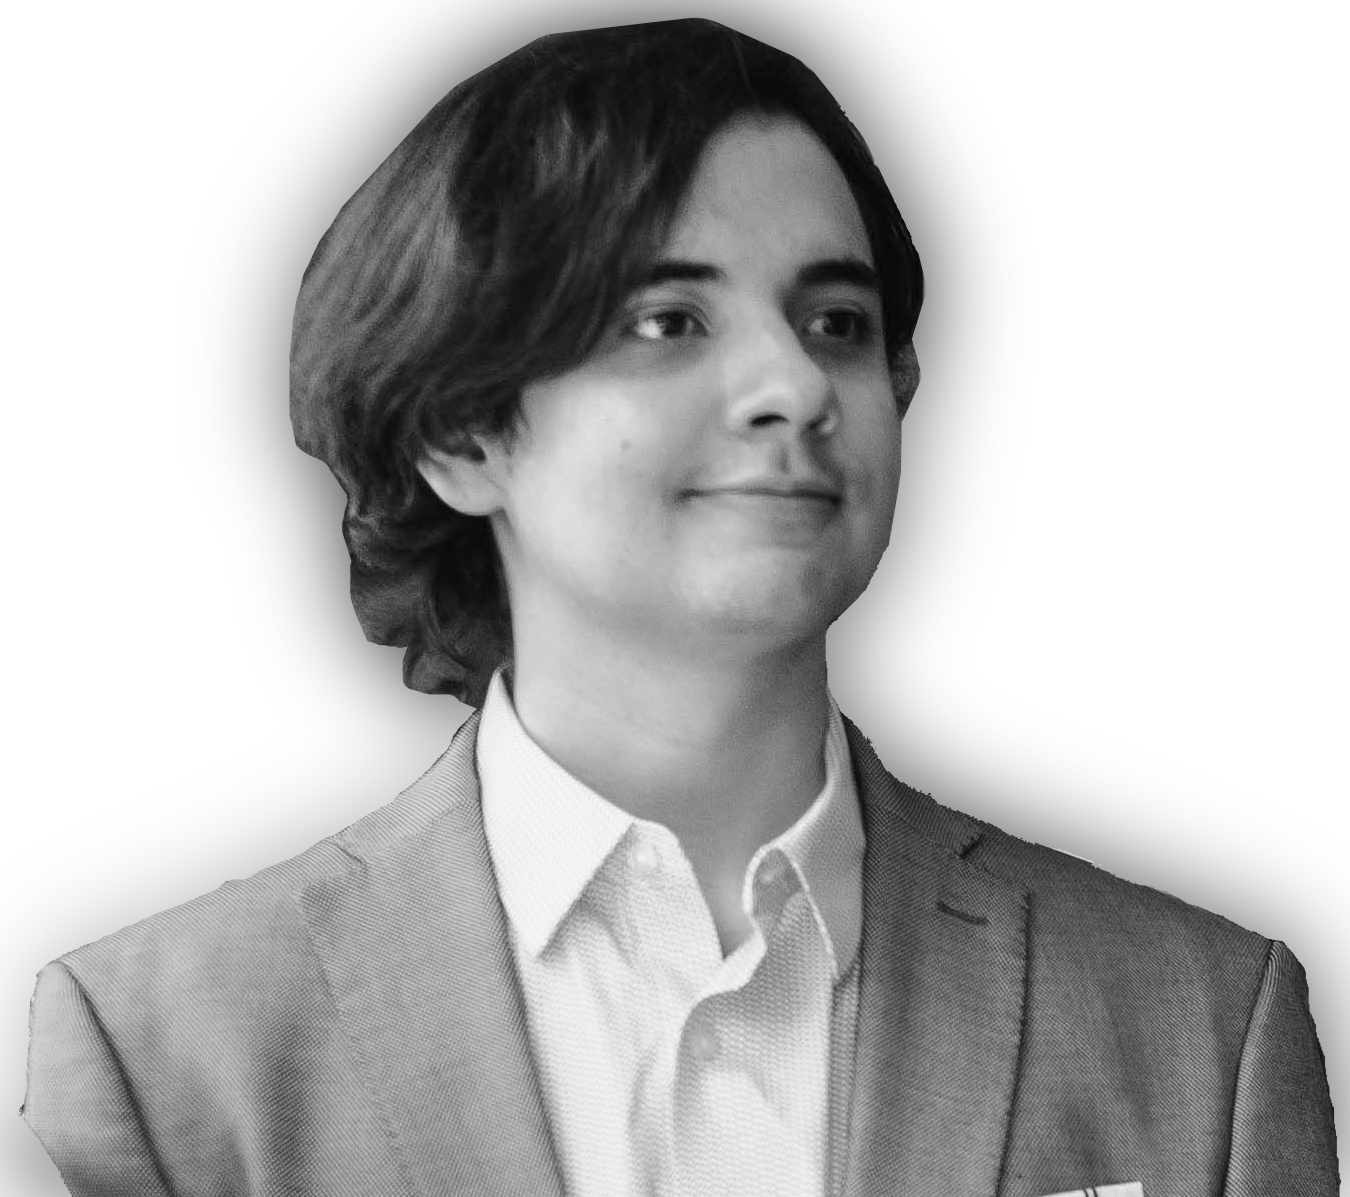
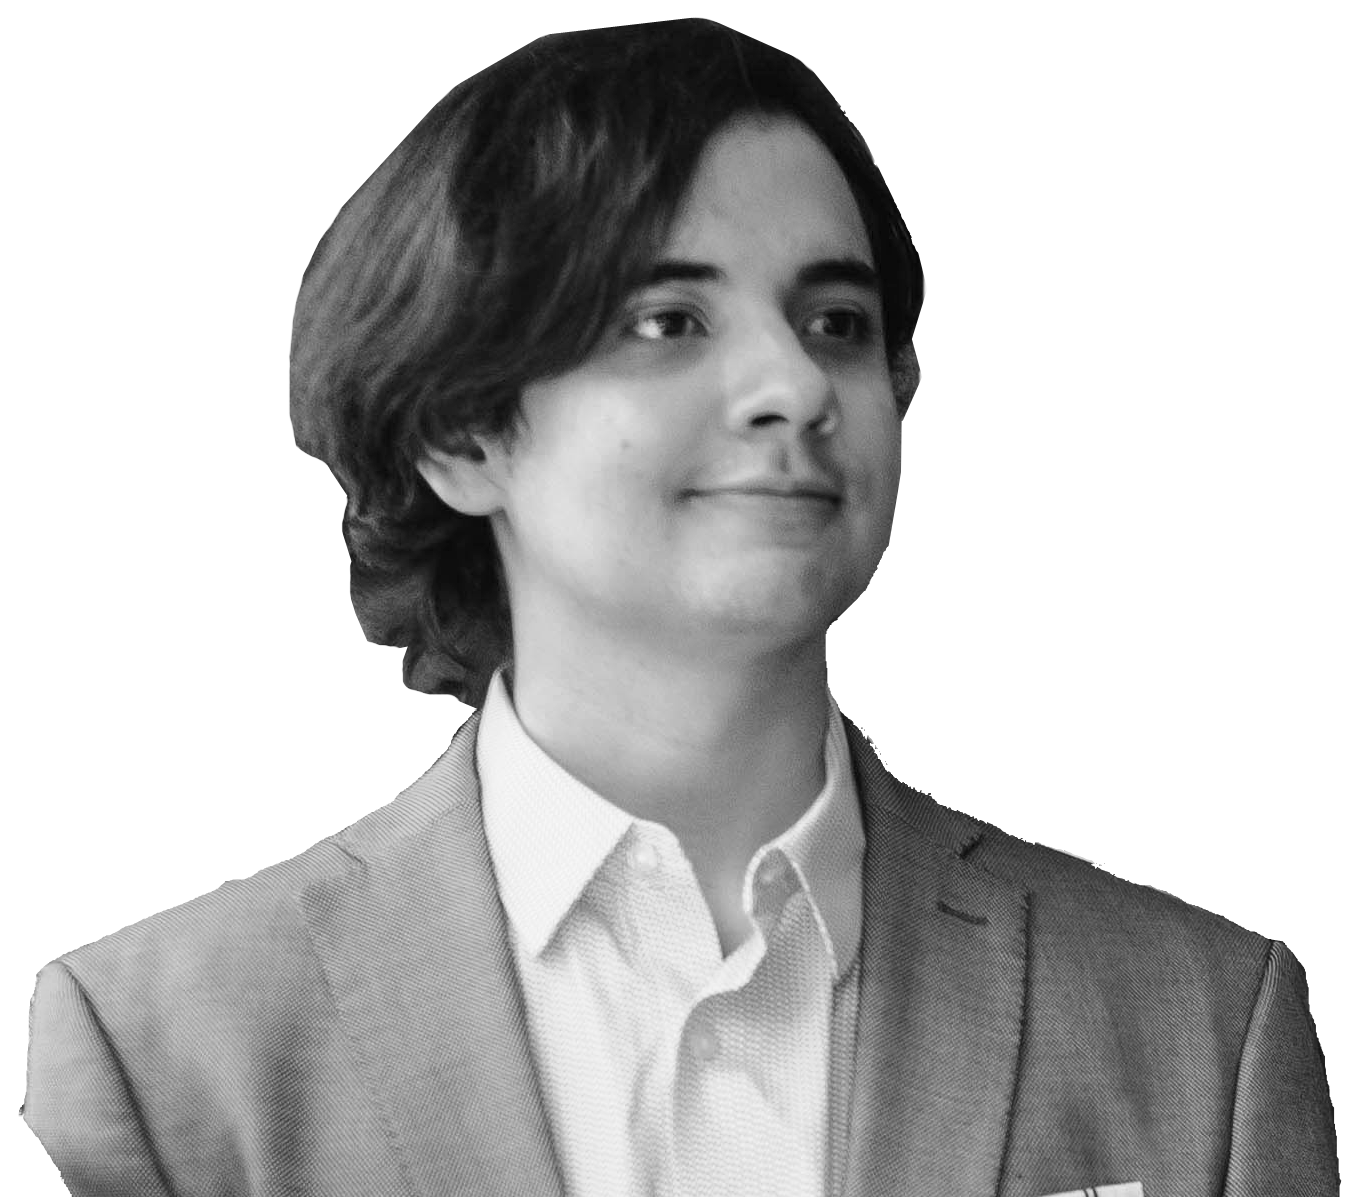
Jumbotron Finished

Changed region(s): [[0.0311, 0.0, 1.0, 1.0], [0.0, 0.8037, 0.0622, 1.0]]

diff --git a/src/views/LandingPage.tsx b/src/views/LandingPage.tsx
@@ -1,6 +1,15 @@
 import "../styles/LandingPage.scss";
 // import Img_Man from "../media/Man.png";
 import Img_Mike from "../media/Mike2022ImageGray.png";
+import HomeIcon from "@mui/icons-material/Home";
+import {
+  FaReact,
+  FaJs,
+  FaHtml5,
+  FaCss3Alt,
+  FaGithub,
+  FaGitAlt,
+} from "react-icons/fa";
 
 const LandingPage = () => {
   return (
@@ -41,10 +50,10 @@ const LandingPage = () => {
             <div className="jumbotron">
               <div className="container">
                 <div className="row">
-                  <div className="col-sm">
+                  <div className="col-sm center-image">
                     <img
                       src={Img_Mike}
-                      className="img-fluid man"
+                      className="img-fluid my-image"
                       alt="Responsive image"
                     ></img>
                   </div>
@@ -52,7 +61,69 @@ const LandingPage = () => {
                     <p className="jumbotron__description--sec1">
                       Michael Bateman
                     </p>
-                    <p className="jumbotron__description--sec2">{`React & React Native Developer`}</p>
+                    <p className="jumbotron__description--sec2">
+                      {`React & React Native Developer`}
+                    </p>
+                    <p className="jumbotron__description--icons">
+                      <FaReact
+                        style={{
+                          color: "#61DBFB",
+                          backgroundColor: "#323330",
+                          borderRadius: 5,
+                          borderStyle: "solid",
+                          borderWidth: 1,
+                        }}
+                      />{" "}
+                      <FaHtml5
+                        style={{
+                          color: "#e34c26",
+                          backgroundColor: "#ebebeb",
+                          borderRadius: 5,
+                          borderStyle: "solid",
+                          borderWidth: 1,
+                        }}
+                      />{" "}
+                      <FaCss3Alt
+                        style={{
+                          color: "#264de4",
+                          backgroundColor: "#ebebeb",
+                          borderRadius: 5,
+                          borderStyle: "solid",
+                          borderWidth: 1,
+                          borderColor: "#264de4",
+                        }}
+                      />{" "}
+                      <FaJs
+                        style={{
+                          color: "#F0DB4F",
+                          backgroundColor: "#323330",
+                          borderRadius: 5,
+                          borderStyle: "solid",
+                          borderWidth: 1,
+                          borderColor: "#323330",
+                        }}
+                      />{" "}
+                      <FaGithub
+                        style={{
+                          color: "white",
+                          backgroundColor: "#323330",
+                          borderRadius: 5,
+                          borderStyle: "solid",
+                          borderWidth: 1,
+                          borderColor: "#323330",
+                        }}
+                      />{" "}
+                      <FaGitAlt
+                        style={{
+                          color: "#F1502F",
+                          backgroundColor: "white",
+                          borderRadius: 5,
+                          borderStyle: "solid",
+                          borderWidth: 1,
+                          borderColor: "#3E2C00",
+                        }}
+                      />
+                    </p>
                     <p className="jumbotron__description--sec3">
                       {`I'm a Software Engineering, specialized in FrontEnd
                       Development (React & React Native).`}

diff --git a/src/styles/LandingPage.scss b/src/styles/LandingPage.scss
@@ -145,23 +145,15 @@ $sway-type: "sway-left-to-right", "sway-right-to-left";
   box-shadow: 0.3em 0.3em 1em rgb(140, 140, 140);
 }
 
-.man {
-  // width: 150vh;
-  // height: 45vh;
-  // height: auto;
+.center-image {
+  display: flex;
+  justify-content: center;
+}
 
-  // height: auto;
-  // max-width: 100%;
-  // height: 45vh;
-  // width: 10vw;
-  // width: 3vh;
-  // width: auto;
-  // height: auto;
-  // width: 19vw;
-  // height: fit-content;
-  // width: 10vw;
+.my-image {
+  display: flex;
   opacity: 60%;
-  border-radius: 0em 0em 22.5em 35em;
+  border-radius: 10em;
   align-self: center;
 }
 
@@ -176,7 +168,7 @@ $sway-type: "sway-left-to-right", "sway-right-to-left";
 }
 
 .jumbotron__description--sec1 {
-  font-size: 3vw;
+  font-size: 2.8vw;
   font-weight: 900;
   margin-top: 4vh;
 }
@@ -188,8 +180,15 @@ $sway-type: "sway-left-to-right", "sway-right-to-left";
   margin-top: 0em;
 }
 
+.jumbotron__description--icons {
+  // margin-left: 0.5em;
+  font-size: 3vw;
+  font-weight: 700;
+  margin-top: 0em;
+}
+
 .jumbotron__description--sec3 {
-  font-size: 1.8vw;
+  font-size: 1.6vw;
   margin-top: 0;
 }
 
@@ -215,9 +214,20 @@ $sway-type: "sway-left-to-right", "sway-right-to-left";
     font-size: 2.8vw;
   }
 
+  .jumbotron__description--icons {
+    // margin-left: 0.5em;
+    font-size: 5vw;
+    font-weight: 700;
+    margin-top: 0em;
+  }
+
   .jumbotron__description--sec3 {
     font-size: 2.5vw;
     margin-left: 15vw;
     margin-right: 15vw;
+  }
+
+  .my-image {
+    margin-top: 2em;
   }
 }
